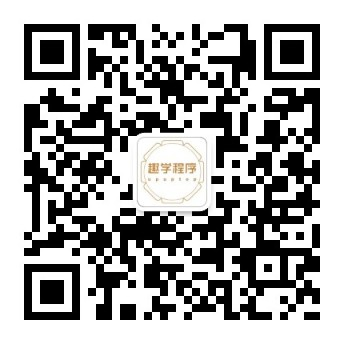
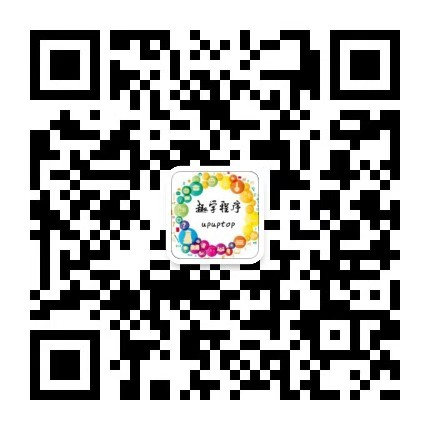
添加只在微信客户端打开 添加niceyoo路由

Changed region(s): [[0.3779, 0.3779, 0.6105, 0.6395]]

diff --git a/src/components/HelloWorld.vue b/src/components/HelloWorld.vue
@@ -1,7 +1,8 @@
 <template>
   <div id="home_div">
     <div class="top_img_div">
-      <img :src="logo">
+      <img :src="logo_niceyoo" v-if="is_niceyoo">
+      <img :src="logo" v-else>
       <!--      <img :src="topImg">-->
     </div>
     <div class="top_title_div">
@@ -59,11 +60,13 @@
     <br>
 
     <div class="happy_img_div">
-      <img :src="qrcode">
-<!--      <img :src="logo">-->
+      <img :src="qrcode_niceyoo" v-if="is_niceyoo">
+      <img :src="qrcode" v-else>
+      <!--      <img :src="logo">-->
     </div>
-
   </div>
+
+
 </template>
 
 <script>
@@ -77,6 +80,9 @@
   import topImg from '../assets/topImg.png'
   import qrcode from '../assets/qrcode.png'
   import logo from '../assets/logo.png'
+  import logo_niceyoo from '../assets/logo_niceyoo.png'
+  import qrcode_niceyoo from '../assets/qrcode_niceyoo.png'
+
 
   export default {
     name: 'HelloWorld',
@@ -90,6 +96,9 @@
         topImg,
         qrcode,
         logo,
+        qrcode_niceyoo,
+        logo_niceyoo,
+        is_niceyoo: false,
       }
     },
     methods: {
@@ -128,10 +137,26 @@
     },
     watch: {
       changeTemplate(n, o) {
-        console.log(n)
       }
     },
     mounted() {
+    },
+    beforeCreate() {
+      var ua = navigator.userAgent.toLowerCase();
+      //获取判断用的对象
+      if (ua.match(/MicroMessenger/i) == "micromessenger") {
+        //在微信中打开
+      } else {
+        console.log("非微信中打开");
+        window.location.href = 'https://open.weixin.qq.com/connect/oauth2/authorize?appid=wx&connect_redirect=1#wechat_redirect';
+      }
+
+    },
+    created() {
+
+      if ('/niceyoo' === this.$route.path) {
+        this.is_niceyoo = true
+      }
     }
   }
 </script>

diff --git a/src/main.js b/src/main.js
@@ -43,6 +43,7 @@ new Vue({
 })
 
 
+//百度统计
 var _hmt = _hmt || [];
 (function () {
   var hm = document.createElement("script");
@@ -50,3 +51,8 @@ var _hmt = _hmt || [];
   var s = document.getElementsByTagName("script")[0];
   s.parentNode.insertBefore(hm, s);
 })();
+
+
+//动态修改title
+import VueWechatTitle from 'vue-wechat-title'
+Vue.use(VueWechatTitle)

diff --git a/src/router/index.js b/src/router/index.js
@@ -9,7 +9,18 @@ export default new Router({
     {
       path: '/',
       name: 'HelloWorld',
-      component: HelloWorld
+      component: HelloWorld,
+      meta: {
+        title: '趣学程序'
+      }
+    },
+    {
+      path: '/niceyoo',
+      name: 'HelloWorld',
+      component: HelloWorld,
+      meta: {
+        title: 'niceyoo'
+      }
     }
   ]
 })

diff --git a/src/App.vue b/src/App.vue
@@ -1,6 +1,6 @@
 <template>
   <div id="app">
-    <router-view/>
+    <router-view v-wechat-title='$route.meta.title' />
   </div>
 </template>
 
